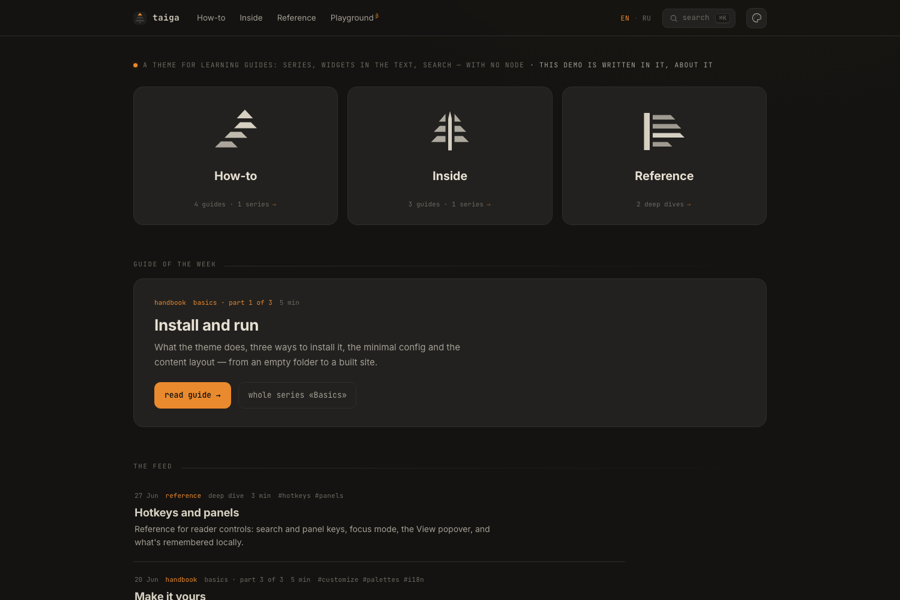
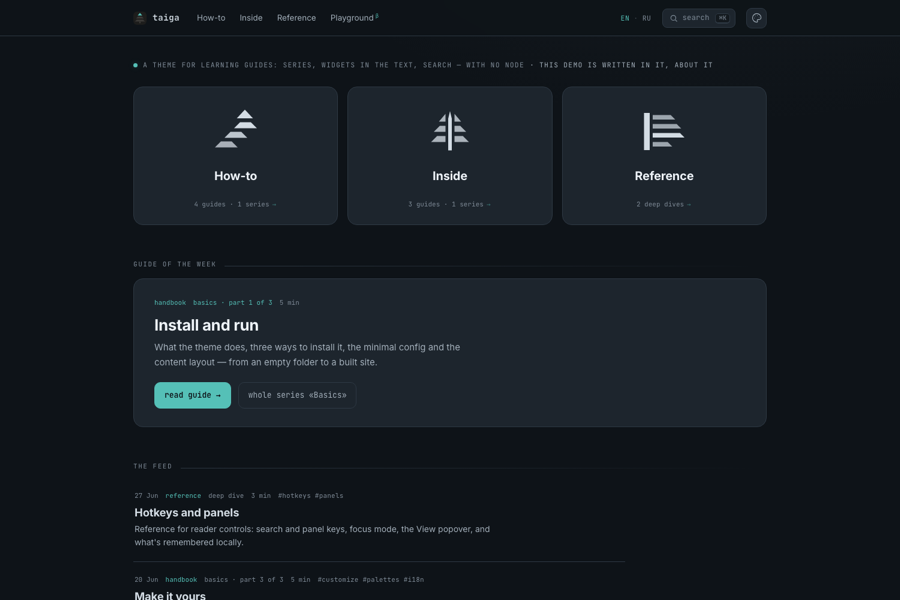
[phase-07] feat(palettes): add the Taiga palette and retire amber
The theme is called taiga and had no taiga in it. The new palette is the
cold blue-grey slate of the README banner — the same colour world as the
artwork — and it is now the default, in the demo and in the templates'
fallback. Amber stays as one palette among eight; it just stops being
the theme's voice, because the author is keeping amber for his own blog.

The brand accent is glacier teal. It is not one hex, and that is forced,
not sloppy: the accent is also a button background, with --bg-deep
painted on it. On a dark palette it must be light enough to hold
near-black text; on the light palette, dark enough to hold near-white.
The two demands do not overlap — they are 2.3x apart in luminance — so
one hue is carried at two values, #55c0b7 and #0e7a71.

Amber never cleared that bar either, and nobody had measured it:

- Light: links 2.57:1, the CTA and the logo crown 2.41:1. Broken.
- Nord: links on bg-surface 4.18:1. Broken.

All 56 contrast checks across the eight palettes pass now, and nothing
regressed.

Teal also pulls code highlighting apart. Keywords (amber) and numbers
(copper) sat 0.035 apart in perceptual distance — close enough to be the
same colour to a reader. An ice blue would have landed 5 degrees from
the accent that colours types, which is the same mistake in the other
direction.

Still amber and left alone on purpose: --body-glow in 01-base.css warms
every dark palette from CSS, and the OG cover plate is a warm image.
Both are being redone separately.

diff --git a/layouts/_partials/head/meta.html b/layouts/_partials/head/meta.html
@@ -12,9 +12,11 @@
 <title>{{ $title }}</title>
 {{- $desc := .Description | default .Params.lead | default site.Params.heroLine -}}
 {{- /* Favicon accent square: params.accent → the default palette's accent →
-       amber. As a data-URI the SVG can't read CSS vars, so the colour is baked
-       here; with defaults it resolves to #ea8a2e (href stays byte-identical). */ -}}
-{{- $acc := site.Params.accent | default (index (index site.Data.themes (site.Params.defaultTheme | default "amber")) "accent") | default "#ea8a2e" -}}
+       glacier teal. As a data-URI the SVG can't read CSS vars, so the colour is
+       baked here. The literal is the last-resort fallback only (it is reached
+       solely if the palette file is missing the key); with any shipped palette
+       the value comes from data/themes/<id>.toml. */ -}}
+{{- $acc := site.Params.accent | default (index (index site.Data.themes (site.Params.defaultTheme | default "taiga")) "accent") | default "#55c0b7" -}}
 <meta name="description" content="{{ $desc }}">
 <link rel="canonical" href="{{ .Permalink }}">
 {{- /* hreflang alternates. .AllTranslations includes this page, so the set is

diff --git a/layouts/_partials/coming-soon.html b/layouts/_partials/coming-soon.html
@@ -26,7 +26,7 @@
          image       string   — share image, an assets/ path (e.g. "og/soon.png")
 */ -}}
 {{- $cs := site.Params.comingSoon -}}
-{{- $pal := index site.Data.themes (site.Params.defaultTheme | default "amber") -}}
+{{- $pal := index site.Data.themes (site.Params.defaultTheme | default "taiga") -}}
 {{- $title := $cs.title | default site.Title -}}
 {{- $desc := $cs.description | default site.Params.heroLine -}}
 {{- $words := $cs.words | default (slice

diff --git a/layouts/_partials/head/palettes.html b/layouts/_partials/head/palettes.html
@@ -5,7 +5,7 @@
        with `disabled = true` are skipped (a site can disable a theme's palette
        by overriding its file). Meta keys are not emitted as CSS vars. */ -}}
 {{- $skip := slice "name" "weight" "light" "disabled" -}}
-{{- $default := site.Params.defaultTheme | default "amber" -}}
+{{- $default := site.Params.defaultTheme | default "taiga" -}}
 {{- $themes := site.Data.themes -}}
 {{- /* Optional cross-cutting accent override (params.accent). When set, it
        replaces --accent/-dim/-glow in :root AND in every [data-theme] block,

diff --git a/layouts/baseof.html b/layouts/baseof.html
@@ -9,7 +9,7 @@
 {{- partial "coming-soon.html" . -}}
 {{- else -}}
 <!DOCTYPE html>
-<html lang="{{ .Language.LanguageCode }}" data-theme="{{ site.Params.defaultTheme | default "amber" }}">
+<html lang="{{ .Language.LanguageCode }}" data-theme="{{ site.Params.defaultTheme | default "taiga" }}">
 <head>
 {{- partial "head.html" . -}}
 </head>

diff --git a/docs/customizing.md b/docs/customizing.md
@@ -80,10 +80,18 @@ palettes, so one param repaints it everywhere at once:
 accent = "#7aa2f7"
 ```
 
-Now all seven built-in palettes — and any you added — use that colour instead of
-their native amber (`#ea8a2e`, which all seven share): links, buttons, active
-states, the accent dot in the picker's swatch, the crown of the logo mark and
-the same crown in the favicon. `--accent-dim` and `--accent-glow` are derived
+Now every built-in palette — and any you added — uses that colour instead of its
+native one: links, buttons, active states, the accent dot in the picker's swatch,
+the crown of the logo mark and the same crown in the favicon.
+
+The native accent is glacier teal, and it is **not one hex**: the dark palettes
+carry `#55c0b7` and `Light ☀` carries `#0e7a71`. That is not an inconsistency —
+it is forced. The accent is also a button *background* (`.btn-cta` paints
+`--bg-deep` on it), so on a dark palette it has to be light enough to hold
+near-black text, and on a light palette dark enough to hold near-white text.
+Those two demands do not overlap, so one hue is held at two luminances. Setting
+`accent` yourself collapses both to your single value — check it against a light
+palette before you ship. `--accent-dim` and `--accent-glow` are derived
 from it (`rgba(…, .18)` and `rgba(…, .28)`). Override either explicitly if the
 derived alpha isn't what you want:
 

diff --git a/docs/ru/customizing.md b/docs/ru/customizing.md
@@ -82,9 +82,18 @@ weight = 25          # позиция в списке пикера
 accent = "#7aa2f7"
 ```
 
-Теперь все семь палитр из комплекта — и любая твоя — берут этот цвет вместо
-родного янтарного (`#ea8a2e`, он одинаков во всех семи): ссылки, кнопки, активные
-состояния, акцентная точка на свотче в пикере, крона логотипа и она же в фавиконе.
+Теперь каждая палитра из комплекта — и любая твоя — берёт этот цвет вместо
+родного: ссылки, кнопки, активные состояния, акцентная точка на свотче в пикере,
+крона логотипа и она же в фавиконе.
+
+Родной акцент — ледниковая бирюза, и это **не один хекс**: тёмные палитры несут
+`#55c0b7`, а `Light ☀` — `#0e7a71`. Это не разнобой, а вынужденность. Акцент
+служит ещё и *фоном* кнопки (`.btn-cta` пишет по нему цветом `--bg-deep`), значит
+на тёмной палитре он обязан быть достаточно светлым, чтобы держать почти чёрный
+текст, а на светлой — достаточно тёмным, чтобы держать почти белый. Эти два
+требования не пересекаются, поэтому один тон живёт в двух светлотах. Задав
+`accent` сам, ты схлопываешь обе в одно значение — проверь его на светлой палитре,
+прежде чем выкатывать.
 `--accent-dim` и `--accent-glow` выводятся из него (`rgba(…, .18)` и
 `rgba(…, .28)`). Если выведенная прозрачность не устраивает — задай явно:
 

diff --git a/docs/params.md b/docs/params.md
@@ -20,7 +20,7 @@ fully commented — copy it and edit.
 | `heroSat` | string | — | Trailing `· …` clause of the hero line, styled apart. Site-wide unless a language overrides it — see note 2. |
 | `featured` | string (content path) | — | "Guide of the week" card on the home page, e.g. `"howto/get-started"`. Omit to hide the card. Shared across languages — the path resolves to each language's own translation of that page. |
 | `feedInitial` | int | `8` | Posts shown on the home feed before the "N more guides" reveal button. |
-| `defaultTheme` | string (palette id) | `"amber"` | Palette applied before the reader picks one — an id of a `data/themes/<id>.toml` file. |
+| `defaultTheme` | string (palette id) | `"taiga"` | Palette applied before the reader picks one — an id of a `data/themes/<id>.toml` file. |
 | `accent` | string (`#rrggbb`) | — | Overrides the accent colour across **all** palettes at once (built-in and site) — a brand axis orthogonal to the palettes. Unset ⇒ each palette keeps its native accent. Must be a 6-digit hex, e.g. `"#7aa2f7"`; any other value fails the build. See [customizing.md](customizing.md#recolour). |
 | `accentDim` | CSS colour | derived | Override for the dimmed accent (focus rings, tinted fills). Default, when `accent` is set: `rgba(r,g,b,.18)` derived from it. Ignored unless `accent` is set. |
 | `accentGlow` | CSS colour | derived | Override for the accent glow (shadows). Default, when `accent` is set: `rgba(r,g,b,.28)` derived from it. Ignored unless `accent` is set. |

diff --git a/docs/ru/params.md b/docs/ru/params.md
@@ -21,7 +21,7 @@
 | `heroSat` | строка | — | Хвостовое « · …»-уточнение строки героя, оформленное отдельно. Общий для сайта, если язык его не переопределяет — см. примечание 2. |
 | `featured` | строка (путь к странице) | — | Карточка «гайд недели» на главной, например `"howto/get-started"`. Не задан — карточки нет. Общий для языков — путь резолвится в перевод страницы на каждом языке. |
 | `feedInitial` | int | `8` | Сколько постов видно в ленте на главной до кнопки «ещё N гайдов». |
-| `defaultTheme` | строка (id палитры) | `"amber"` | Палитра, применяемая до того, как читатель выберет свою, — id файла `data/themes/<id>.toml`. |
+| `defaultTheme` | строка (id палитры) | `"taiga"` | Палитра, применяемая до того, как читатель выберет свою, — id файла `data/themes/<id>.toml`. |
 | `accent` | строка (`#rrggbb`) | — | Переопределяет цвет акцента сразу во **всех** палитрах (встроенных и сайта) — ось бренда, ортогональная палитрам. Не задан ⇒ каждая палитра остаётся при своём акценте. Обязателен 6-значный hex, например `"#7aa2f7"`; любое другое значение валит сборку. См. [customizing.md](customizing.md#recolour). |
 | `accentDim` | CSS-цвет | вычисляется | Переопределение приглушённого акцента (кольца фокуса, подсветка заливок). Дефолт при заданном `accent`: `rgba(r,g,b,.18)`, выведенный из него. Игнорируется, если `accent` не задан. |
 | `accentGlow` | CSS-цвет | вычисляется | Переопределение свечения акцента (тени). Дефолт при заданном `accent`: `rgba(r,g,b,.28)`, выведенный из него. Игнорируется, если `accent` не задан. |